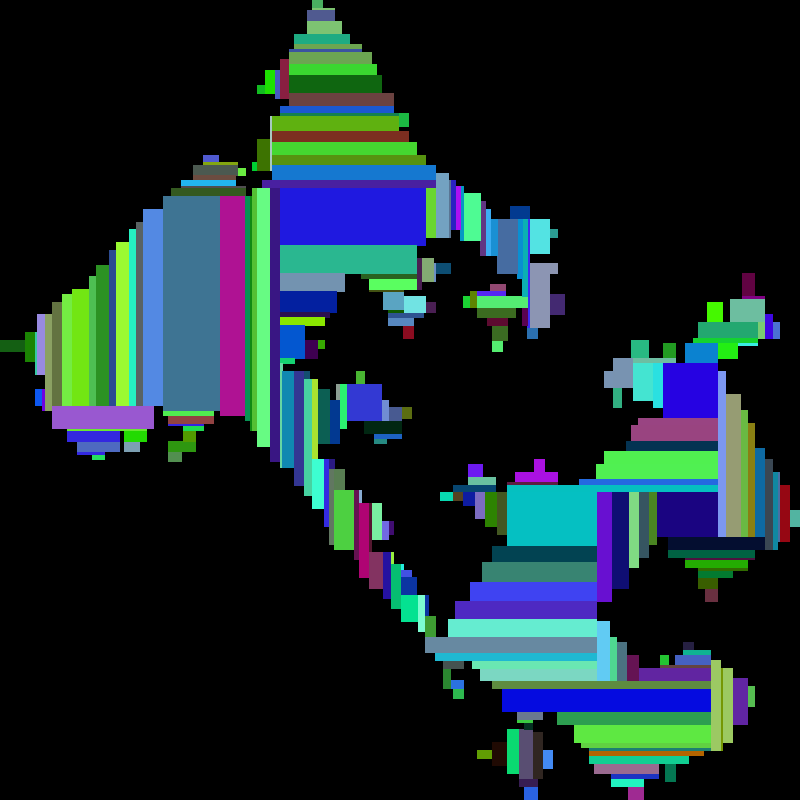
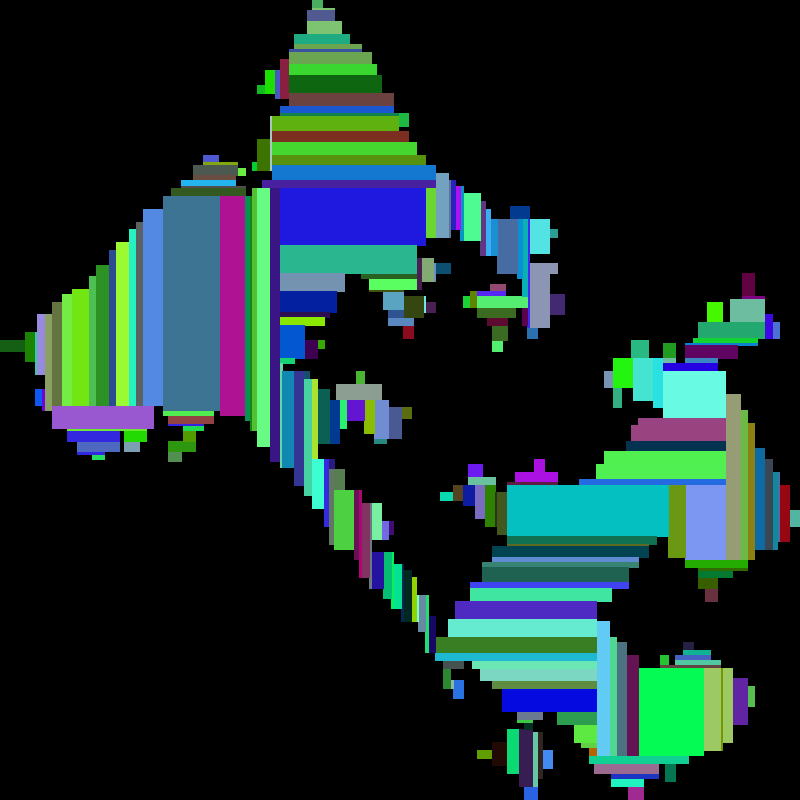
day 18 fixed angle checking -> finally part 2

diff --git a/src/days/day18.rs b/src/days/day18.rs
@@ -79,23 +79,23 @@ impl Direction {
             Direction::Up => match other {
                 Direction::Up => 0,
                 Direction::Down => 180,
-                Direction::Left => -90,
+                Direction::Left => 270,
                 Direction::Right => 90,
             },
             Direction::Down => match other {
                 Direction::Up => 180,
                 Direction::Down => 0,
                 Direction::Left => 90,
-                Direction::Right => -90,
+                Direction::Right => 270,
             },
             Direction::Left => match other {
                 Direction::Up => 90,
-                Direction::Down => -90,
+                Direction::Down => 270,
                 Direction::Left => 0,
                 Direction::Right => 180,
             },
             Direction::Right => match other {
-                Direction::Up => -90,
+                Direction::Up => 270,
                 Direction::Down => 90,
                 Direction::Left => 180,
                 Direction::Right => 0,
@@ -316,9 +316,9 @@ fn draw_lagoon(edges: &Vec<Edge>, rectangles: &Vec<(Edge, Edge)>) {
             draw_line(&mut img, x0, y0, x1, y1, edge.color);
         }
     }
-    img.save(format!("outputs/day_18_{}.png", rectangles.len()))
+    // img.save(format!("outputs/day_18/day_18_{}.png", rectangles.len()))
     // img.save("outputs/day_18.png")
-        .expect("Failed to save image");
+    //     .expect("Failed to save image");
 
     // let mut input = String::new();
     // std::io::stdin()
@@ -377,11 +377,12 @@ fn can_slice(
     next_edges_len: usize,
     grandparent_index: usize,
     grandparent: &Edge,
+    parent: &Edge,
     current: &Edge,
-    angle: i64,
 ) -> bool {
     if grandparent.direction != current.direction.opposite()
-        || angle < 0
+        || grandparent.direction.angle(parent.direction) != 90
+        || parent.direction.angle(current.direction) != 90
         // if nr of edges done + remaining edges == 4, we're done
         || next_edges_len + edges.len() - grandparent_index == 4
     {
@@ -414,7 +415,6 @@ fn area_of_rectilinear_polygon(mut edges: Vec<Edge>) -> i64 {
         let nr_of_edges = edges.len();
         let mut next_edges: Vec<Edge> = Vec::with_capacity(nr_of_edges);
         let mut i = 0;
-        let mut angle = edges[i].direction.angle(edges[i + 1].direction);
 
         while i < nr_of_edges {
             let grandparent = edges[i];
@@ -428,9 +428,8 @@ fn area_of_rectilinear_polygon(mut edges: Vec<Edge>) -> i64 {
             } else {
                 next_edges[(i + 2) % nr_of_edges]
             };
-            angle += parent.direction.angle(current.direction);
 
-            if !can_slice(&edges, next_edges.len(), i, &grandparent, &current, angle) {
+            if !can_slice(&edges, next_edges.len(), i, &grandparent, &parent, &current) {
                 next_edges.push(grandparent);
                 i += 1;
                 continue;
@@ -444,7 +443,6 @@ fn area_of_rectilinear_polygon(mut edges: Vec<Edge>) -> i64 {
                 next_edges.remove(0);
             }
 
-            angle = 0;
             if current.distance == grandparent.distance {
                 // Clean cut -> connect before & after rectangle by extending the one before
                 area += current.distance * (parent.distance + 1);
@@ -544,15 +542,13 @@ fn area_of_rectilinear_polygon(mut edges: Vec<Edge>) -> i64 {
 // Calculate the volume of the lagoon formed by the perimeter. Each position is a 1 meter cube.
 fn part_1(lines: Lines) -> i64 {
     let edges = parse_edges(lines, false);
-    // edges.iter().for_each(|e| println!("{e:?}"));
     // draw_lagoon(&edges, &Vec::new());
     area_of_rectilinear_polygon(edges)
 }
 
 fn part_2(lines: Lines) -> i64 {
     let edges = parse_edges(lines, true);
-    // edges.iter().for_each(|e| println!("{e:?}"));
-    draw_lagoon(&edges, &Vec::new());
+    // draw_lagoon(&edges, &Vec::new());
     area_of_rectilinear_polygon(edges)
 }
 
